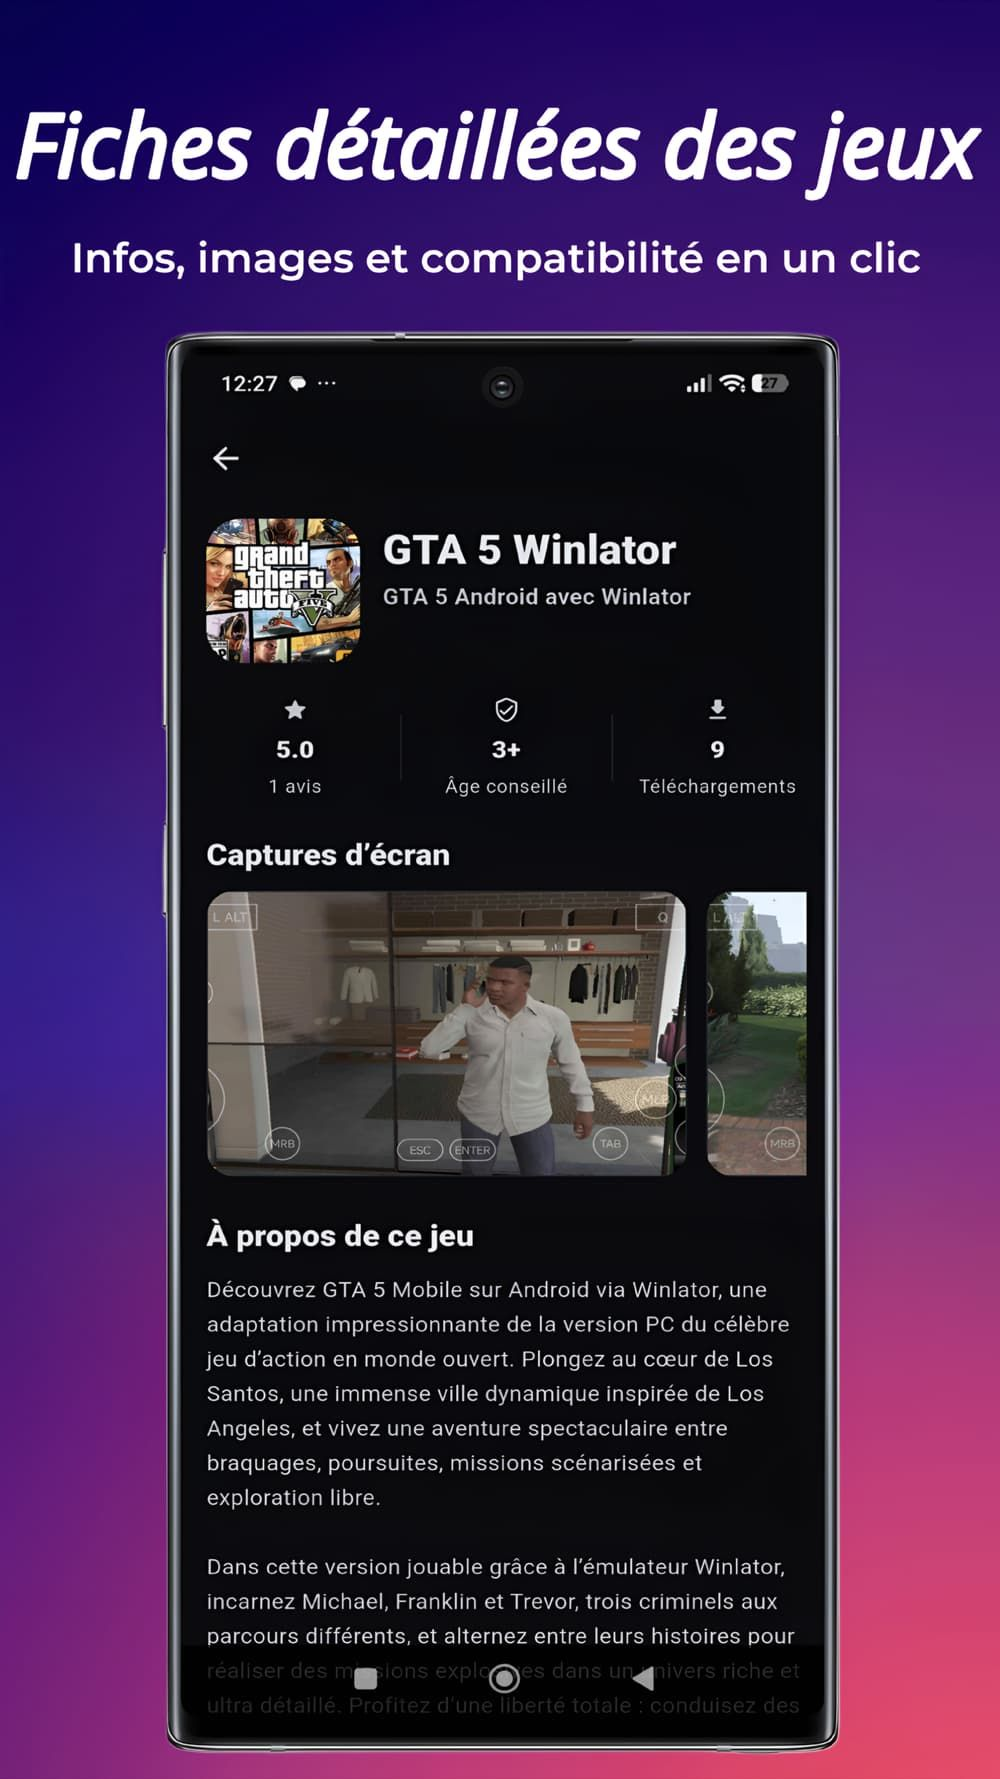
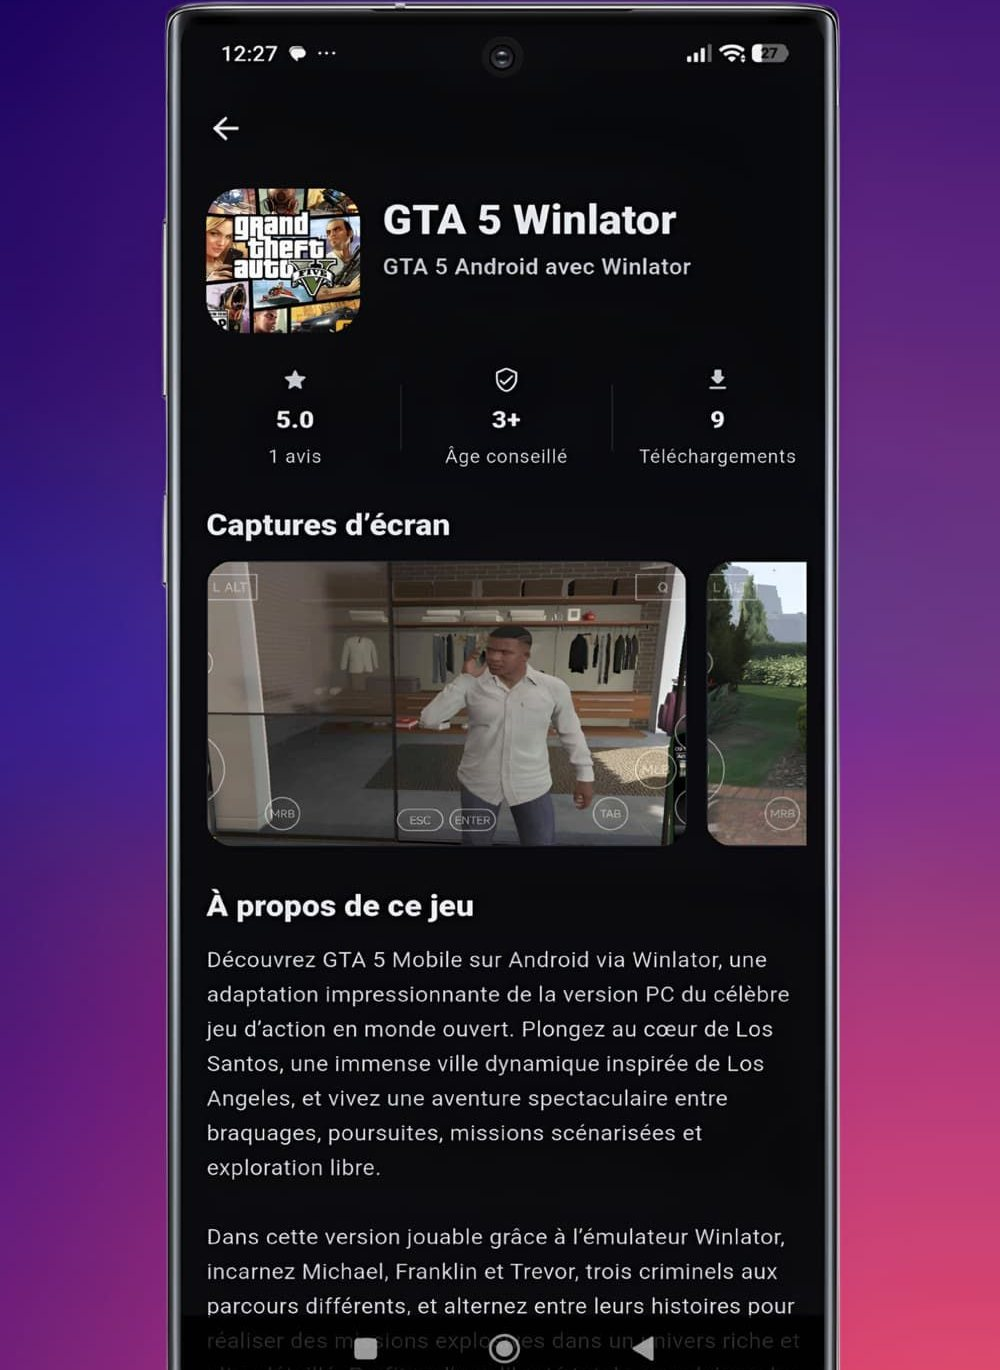
Redesign page structure for less repetition and more visual rhythm
- Remove the 4-card "highlights" row that duplicated both the hero
  pills and the Fonctionnalités section right below it
- Turn Fonctionnalités into an asymmetric bento grid (featured card +
  alternating icon colors) instead of six identical cards
- Crop the screenshot images to drop the baked-in title banner, which
  was duplicating the HTML title/subtitle shown under each card
- Wrap Avis in a bordered panel to match the Sécurité section's banded
  look, giving the page alternating rhythm instead of uniform sections
- Spread the background glow accents down the full page instead of
  bunching them all near the hero, so the long scroll isn't flat
- Tighten section padding (py-20/28 -> py-16/24) to shorten the page

diff --git a/app/page.tsx b/app/page.tsx
@@ -49,29 +49,6 @@ const appShots = [
   },
 ];
 
-const highlights = [
-  {
-    icon: Sparkles,
-    title: "Guides complets",
-    desc: "Des tutoriels simples et utiles pour mieux profiter de vos jeux mobiles.",
-  },
-  {
-    icon: Gamepad2,
-    title: "Jeux compatibles",
-    desc: "Explorez des catégories organisées selon les plateformes et outils compatibles.",
-  },
-  {
-    icon: MessageCircle,
-    title: "Communauté active",
-    desc: "Discutez, échangez des conseils et retrouvez les annonces importantes.",
-  },
-  {
-    icon: Library,
-    title: "Outils pratiques",
-    desc: "Tout est réuni dans une seule application claire, rapide et agréable à utiliser.",
-  },
-];
-
 const features = [
   {
     icon: MessageCircle,
@@ -184,6 +161,10 @@ export default function GuyproGamingLandingPage() {
       <div className="absolute inset-0 max-w-[100vw] overflow-hidden pointer-events-none">
   <GlowOrb className="top-[-80px] left-[-40px] h-52 w-52 md:left-[-80px] md:h-64 md:w-64 bg-blue-500" />
   <GlowOrb className="top-[180px] right-[-30px] h-52 w-52 md:right-[-60px] md:h-72 md:w-72 bg-fuchsia-500" />
+  <GlowOrb className="top-[22%] right-[-40px] h-48 w-48 md:h-64 md:w-64 bg-cyan-400" />
+  <GlowOrb className="top-[38%] left-[-40px] h-56 w-56 md:h-72 md:w-72 bg-fuchsia-500" />
+  <GlowOrb className="top-[55%] right-[5%] h-52 w-52 md:h-64 md:w-64 bg-blue-500" />
+  <GlowOrb className="top-[72%] left-[-30px] h-48 w-48 md:h-64 md:w-64 bg-cyan-400" />
   <GlowOrb className="bottom-[80px] left-[10%] h-56 w-56 md:h-72 md:w-72 bg-cyan-400" />
         <div className="absolute inset-0 bg-[radial-gradient(circle_at_top,rgba(99,102,241,0.12),transparent_30%),radial-gradient(circle_at_center,rgba(217,70,239,0.10),transparent_24%),radial-gradient(circle_at_bottom,rgba(34,211,238,0.10),transparent_24%)]" />
       </div>
@@ -333,34 +314,7 @@ export default function GuyproGamingLandingPage() {
           </div>
         </section>
 
-        <section className="max-w-7xl mx-auto px-4 md:px-6 py-8 md:py-12">
-          <div className="grid grid-cols-1 sm:grid-cols-2 xl:grid-cols-4 gap-4">
-            {highlights.map((item, index) => {
-              const Icon = item.icon;
-              return (
-                <motion.div
-                  key={item.title}
-                  initial={{ opacity: 0, y: 18 }}
-                  whileInView={{ opacity: 1, y: 0 }}
-                  viewport={{ once: true, amount: 0.2 }}
-                  transition={{ delay: index * 0.06, duration: 0.45 }}
-                >
-                  <Card className="h-full rounded-[1.5rem] border-white/10 bg-white/5 backdrop-blur-xl">
-                    <CardContent className="p-5">
-                      <div className="h-12 w-12 rounded-2xl bg-gradient-to-br from-fuchsia-500/15 to-cyan-400/15 border border-white/10 flex items-center justify-center">
-                        <Icon className="h-6 w-6 text-fuchsia-200" />
-                      </div>
-                      <h3 className="mt-4 text-lg font-black">{item.title}</h3>
-                      <p className="mt-2 text-sm text-slate-300 leading-7">{item.desc}</p>
-                    </CardContent>
-                  </Card>
-                </motion.div>
-              );
-            })}
-          </div>
-        </section>
-
-        <section id="fonctionnalites" className="max-w-7xl mx-auto px-4 md:px-6 py-20 md:py-28">
+        <section id="fonctionnalites" className="relative max-w-7xl mx-auto px-4 md:px-6 py-16 md:py-24">
           <SectionTitle
             eyebrow="Fonctionnalités"
             title="Une application pensée pour les joueurs mobiles"
@@ -370,6 +324,8 @@ export default function GuyproGamingLandingPage() {
           <div className="mt-12 grid grid-cols-1 md:grid-cols-2 xl:grid-cols-3 gap-6">
             {features.map((feature, index) => {
               const Icon = feature.icon;
+              const featured = index === 0;
+              const cyan = index % 2 === 1;
               return (
                 <motion.div
                   key={feature.title}
@@ -377,14 +333,33 @@ export default function GuyproGamingLandingPage() {
                   whileInView={{ opacity: 1, y: 0 }}
                   viewport={{ once: true, amount: 0.2 }}
                   transition={{ delay: index * 0.06, duration: 0.5 }}
+                  className={featured ? "md:col-span-2" : undefined}
                 >
-                  <Card className="h-full rounded-[1.75rem] border-white/10 bg-white/5 backdrop-blur-xl shadow-xl shadow-black/10">
-                    <CardContent className="p-6">
-                      <div className="h-14 w-14 rounded-2xl bg-gradient-to-br from-fuchsia-500/20 to-cyan-400/15 border border-white/10 flex items-center justify-center">
-                        <Icon className="h-7 w-7 text-fuchsia-200" />
+                  <Card
+                    className={`relative h-full overflow-hidden rounded-[1.75rem] border-white/10 backdrop-blur-xl shadow-xl shadow-black/10 ${
+                      featured
+                        ? "bg-gradient-to-br from-fuchsia-500/15 via-white/5 to-cyan-400/10"
+                        : "bg-white/5"
+                    }`}
+                  >
+                    <CardContent className={featured ? "p-6 md:p-8" : "p-6"}>
+                      <div
+                        className={`flex items-center justify-center rounded-2xl border border-white/10 ${
+                          featured ? "h-16 w-16" : "h-14 w-14"
+                        } ${
+                          cyan
+                            ? "bg-gradient-to-br from-cyan-400/20 to-fuchsia-500/10"
+                            : "bg-gradient-to-br from-fuchsia-500/20 to-cyan-400/15"
+                        }`}
+                      >
+                        <Icon className={`${featured ? "h-8 w-8" : "h-7 w-7"} ${cyan ? "text-cyan-200" : "text-fuchsia-200"}`} />
                       </div>
-                      <h3 className="mt-5 text-xl font-black">{feature.title}</h3>
-                      <p className="mt-3 text-slate-300 leading-7">{feature.desc}</p>
+                      <h3 className={featured ? "mt-6 text-2xl font-black" : "mt-5 text-xl font-black"}>
+                        {feature.title}
+                      </h3>
+                      <p className={featured ? "mt-3 max-w-md text-slate-300 leading-7" : "mt-3 text-slate-300 leading-7"}>
+                        {feature.desc}
+                      </p>
                     </CardContent>
                   </Card>
                 </motion.div>
@@ -393,7 +368,7 @@ export default function GuyproGamingLandingPage() {
           </div>
         </section>
 
-        <section id="captures" className="max-w-7xl mx-auto px-4 md:px-6 py-20 md:py-28">
+        <section id="captures" className="relative max-w-7xl mx-auto px-4 md:px-6 py-16 md:py-24">
           <SectionTitle
             eyebrow="Captures d'écran"
             title="Découvrez l'application avant même l'installation"
@@ -416,7 +391,7 @@ export default function GuyproGamingLandingPage() {
                       src={shot.image}
                       alt={shot.title}
                       width={1000}
-                      height={1779}
+                      height={1370}
                       sizes="(min-width: 768px) 50vw, 100vw"
                       className="w-full h-auto object-cover transition-transform duration-700 group-hover:scale-[1.03]"
                     />
@@ -431,7 +406,7 @@ export default function GuyproGamingLandingPage() {
           </div>
         </section>
 
-        <section className="max-w-7xl mx-auto px-4 md:px-6 py-20 md:py-28">
+        <section className="relative max-w-7xl mx-auto px-4 md:px-6 py-16 md:py-24">
           <div className="grid grid-cols-1 lg:grid-cols-2 gap-8 items-stretch">
             <motion.div
               initial={{ opacity: 0, x: -24 }}
@@ -488,39 +463,41 @@ export default function GuyproGamingLandingPage() {
           </div>
         </section>
 
-        <section id="avis" className="max-w-7xl mx-auto px-4 md:px-6 py-20 md:py-28">
-          <SectionTitle
-            eyebrow="Avis"
-            title="Des retours qui rassurent les nouveaux visiteurs"
-            desc="Les avis utilisateurs permettent de montrer que l'application est utile, active et réellement appréciée par sa communauté."
-          />
+        <section id="avis" className="relative max-w-7xl mx-auto px-4 md:px-6 py-16 md:py-24">
+          <div className="rounded-[2.5rem] border border-white/10 bg-gradient-to-b from-white/[0.04] to-transparent p-6 md:p-12">
+            <SectionTitle
+              eyebrow="Avis"
+              title="Des retours qui rassurent les nouveaux visiteurs"
+              desc="Les avis utilisateurs permettent de montrer que l'application est utile, active et réellement appréciée par sa communauté."
+            />
 
-          <div className="mt-12 grid grid-cols-1 lg:grid-cols-3 gap-6">
-            {reviews.map((review, index) => (
-              <motion.div
-                key={review.name}
-                initial={{ opacity: 0, y: 22 }}
-                whileInView={{ opacity: 1, y: 0 }}
-                viewport={{ once: true, amount: 0.2 }}
-                transition={{ delay: index * 0.08, duration: 0.5 }}
-              >
-                <Card className="h-full rounded-[1.8rem] border-white/10 bg-white/5 backdrop-blur-xl">
-                  <CardContent className="p-6">
-                    <div className="flex items-center gap-1 text-amber-400">
-                      {Array.from({ length: 5 }).map((_, i) => (
-                        <Star key={i} className="h-5 w-5 fill-current" />
-                      ))}
-                    </div>
-                    <p className="mt-5 text-slate-200 leading-8">“{review.text}”</p>
-                    <p className="mt-6 font-bold text-white">{review.name}</p>
-                  </CardContent>
-                </Card>
-              </motion.div>
-            ))}
+            <div className="mt-12 grid grid-cols-1 lg:grid-cols-3 gap-6">
+              {reviews.map((review, index) => (
+                <motion.div
+                  key={review.name}
+                  initial={{ opacity: 0, y: 22 }}
+                  whileInView={{ opacity: 1, y: 0 }}
+                  viewport={{ once: true, amount: 0.2 }}
+                  transition={{ delay: index * 0.08, duration: 0.5 }}
+                >
+                  <Card className="h-full rounded-[1.8rem] border-white/10 bg-white/5 backdrop-blur-xl">
+                    <CardContent className="p-6">
+                      <div className="flex items-center gap-1 text-amber-400">
+                        {Array.from({ length: 5 }).map((_, i) => (
+                          <Star key={i} className="h-5 w-5 fill-current" />
+                        ))}
+                      </div>
+                      <p className="mt-5 text-slate-200 leading-8">“{review.text}”</p>
+                      <p className="mt-6 font-bold text-white">{review.name}</p>
+                    </CardContent>
+                  </Card>
+                </motion.div>
+              ))}
+            </div>
           </div>
         </section>
 
-        <section id="securite" className="max-w-7xl mx-auto px-4 md:px-6 py-20 md:py-28">
+        <section id="securite" className="relative max-w-7xl mx-auto px-4 md:px-6 py-16 md:py-24">
           <div className="rounded-[2rem] border border-white/10 bg-white/5 p-8 md:p-10 backdrop-blur-xl">
             <div className="grid grid-cols-1 lg:grid-cols-[0.9fr_1.1fr] gap-10 items-start">
               <div>
